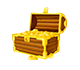
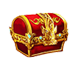
Rock e Tesouro (imagens)

diff --git a/parser.c b/parser.c
@@ -175,8 +175,8 @@ ESTADO enemyMove(ESTADO e){
 				print_attack_animation(e, i);
 				i++;
 			}
-			if (abs(e.inimigo[i].x-e.door.x)+abs(e.inimigo[i].y-e.door.y)<=6) e=enemyMove_door(e, i);
-			else if (abs(e.inimigo[i].x-e.treasure.x)+abs(e.inimigo[i].y-e.treasure.y)<=5) e=enemyMove_treasure(e, i);
+			if (abs(e.inimigo[i].x-e.door.x)+abs(e.inimigo[i].y-e.door.y)<=4) e=enemyMove_door(e, i);
+			else if (abs(e.inimigo[i].x-e.treasure.x)+abs(e.inimigo[i].y-e.treasure.y)<=2) e=enemyMove_treasure(e, i);
 			else{
 				if (e.jog.x > e.inimigo[i].x){
 					x=e.inimigo[i].x + 1;
@@ -691,11 +691,17 @@ void print_enemy(ESTADO e){
 	for(i = 0; i < e.num_inimigos; i++){
 		if(e.inimigo[i].vida !=0 && e.inimigo[i].tipo==1) print_imageID(e.inimigo[i].x, e.inimigo[i].y, ENEMY, i);
 		if(e.inimigo[i].vida !=0 && e.inimigo[i].tipo==2) print_imageID(e.inimigo[i].x, e.inimigo[i].y, ENEMY2, i);
-		if(e.inimigo[i].vida !=0 && e.inimigo[i].tipo==3) print_imageID(e.inimigo[i].x, e.inimigo[i].y, ENEMY3, i);
+		if(e.inimigo[i].vida !=0 && e.inimigo[i].tipo==3) {
+			print_imageID(e.inimigo[i].x, e.inimigo[i].y, ENEMY3, i);
+			print_imageID(e.inimigo[i].x, e.inimigo[i].y, ROCK, i+30);
+		}
 		if(e.inimigo[i].vida !=0 && e.inimigo[i].tipo==4) print_imageID(e.inimigo[i].x, e.inimigo[i].y, BOSS1, i);
 		if(e.inimigo[i].vida !=0 && e.inimigo[i].tipo==5) print_imageID(e.inimigo[i].x, e.inimigo[i].y, ENEMY5, i);
 		if(e.inimigo[i].vida !=0 && e.inimigo[i].tipo==6) print_imageID(e.inimigo[i].x, e.inimigo[i].y, ENEMY6, i);
-		if(e.inimigo[i].vida !=0 && e.inimigo[i].tipo==7) print_imageID(e.inimigo[i].x, e.inimigo[i].y, ENEMY7, i);
+		if(e.inimigo[i].vida !=0 && e.inimigo[i].tipo==7) {
+			print_imageID(e.inimigo[i].x, e.inimigo[i].y, ENEMY7, i);
+			print_imageID(e.inimigo[i].x, e.inimigo[i].y, ROCK, i+30);
+		}
 		if(e.inimigo[i].vida !=0 && e.inimigo[i].tipo==8) print_imageID(e.inimigo[i].x, e.inimigo[i].y, BOSS2, i);
 	}
 }
@@ -943,15 +949,14 @@ void print_attack_animation(ESTADO e, int numI){
 		difx=e.jog.x-e.inimigo[numI].x;
 		dify=e.jog.y-e.inimigo[numI].y;
 
-		print_imageID(e.inimigo[numI].x, e.inimigo[numI].y, ROCK, id);
-		printf("<animateMotion xlink:href=#%d dur=0.75s begin=0s fill=freeze path='M%d,%d 0,0' /> \n", id, -(60*difx), -(70*dify));
+		printf("<animateMotion xlink:href=#%d dur=0.75s begin=0.3s fill=freeze path='M%d,%d 0,0' /> \n", id, -60*difx, 70*dify);
 		printf("<animate xlink:href=#%d attributeName='opacity' to='0' dur='0.2s' begin='0.75s' fill='freeze' /> \n", id);
 	}
 		
 	else {
 		difx=e.jog.x-e.inimigo[numI].x;
 		dify=e.jog.y-e.inimigo[numI].y;
-		printf("<animateMotion xlink:href=#%d dur=0.75s begin=0.5s fill=freeze path='M0,0, %d,%d 0,0' /> \n", numI, 60*difx, 70*dify);
+		printf("<animateMotion xlink:href=#%d dur=0.5s begin=0.5s fill=freeze path='M0,0, %d,%d 0,0' /> \n", numI, 60*difx, 70*dify);
 	}
 
 }

diff --git a/parser.h b/parser.h
@@ -64,7 +64,7 @@ Funções responsaveis pelo funcionamento do jogo.
 #define MENU_BUTTON2 "http://127.0.0.1/imagens/menu_button2.png"
 #define ESPADA_GIR "http://127.0.0.1/imagens/espada_giratoria.png"
 #define ESPADA_GIR2 "http://127.0.0.1/imagens/espada_giratoria2.png"
-#define ROCK "http://127.0.0.1/imagens/mana.png"
+#define ROCK "http://127.0.0.1/imagens/rock.png"
 
 
 

diff --git a/main.h b/main.h
@@ -1,0 +1,17 @@
+/**
+@file main.h
+*/
+
+/** \brief Função que define o tamanho da janela de jogo e o seu nome.
+
+	Função que "abre" o jogo.
+*/
+void print_header(); 
+
+
+/** \brief Função que "fecha" o jogo. */
+void print_footer();
+
+
+/** \brief Função que executa o jogo. */
+int main();
